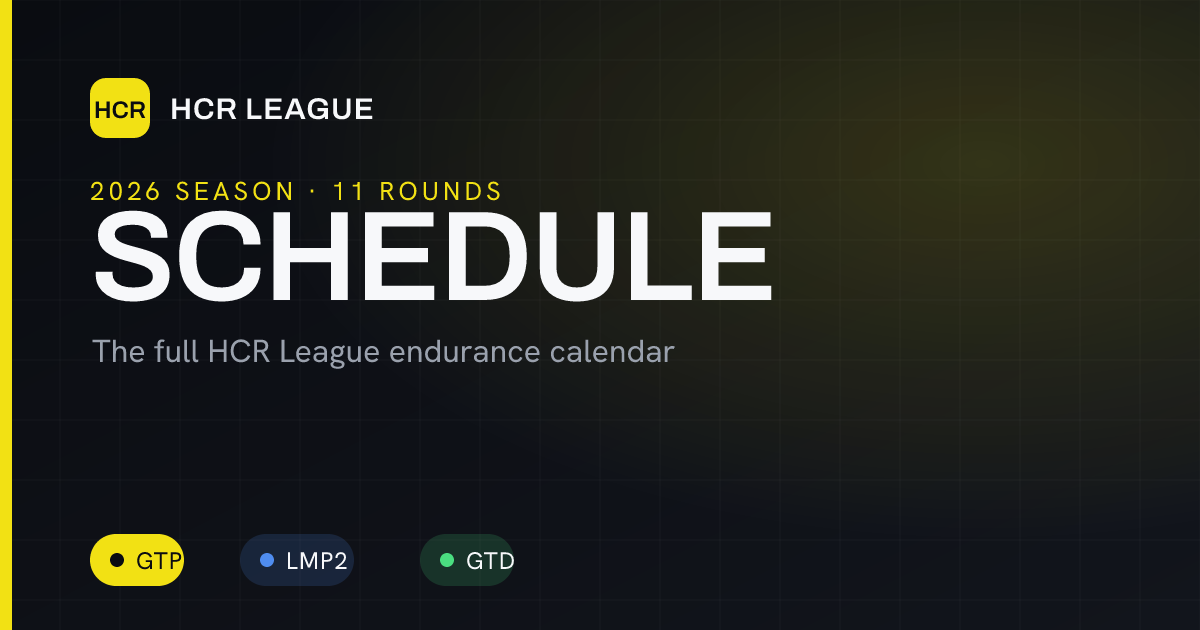
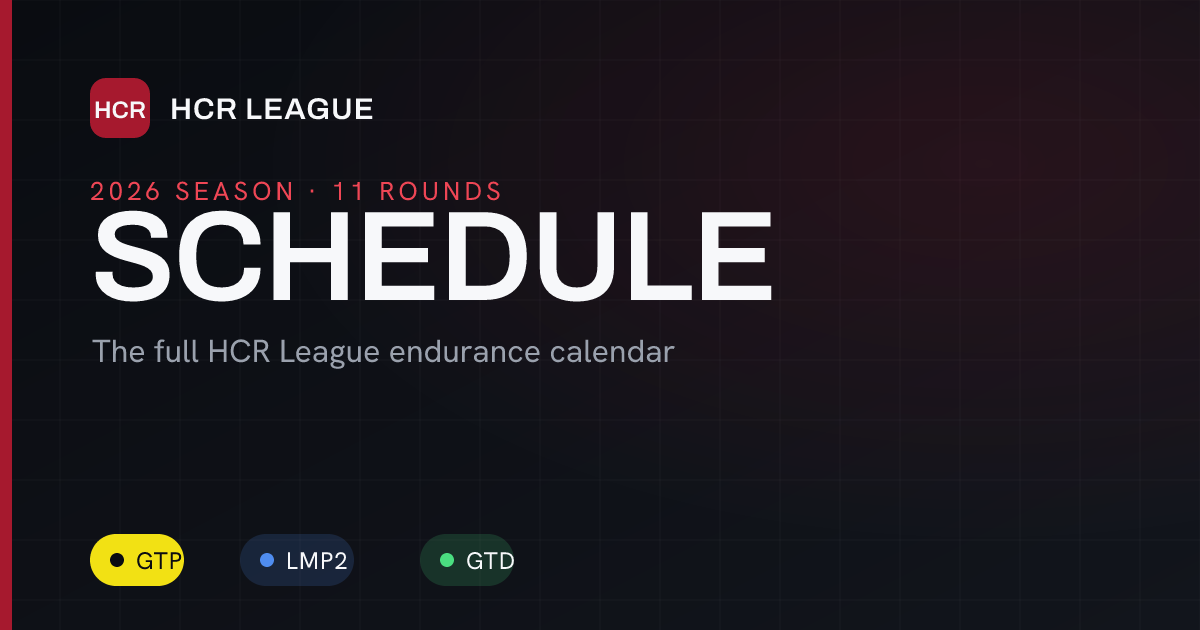
The brand goes black, red and white
--color-brand is now a rich dark carmine (#a6192e, Pantone 187
territory), --color-brand-deep #7c1121 for red-as-text on white. Dark
grounds remap BOTH brand tokens to a brighter cut (#ef4655/#f2556a)
because the carmine itself is ~1.7:1 on near-black — invisible as
text. Every black-on-brand pairing flipped to white (FL badge, You
chip, primary buttons, selection); the OG cards re-rendered with a
red rail, white-on-red lockup and bright-red eyebrow; Discord embeds
carry 0xa6192e (HCR_YELLOW renamed HCR_RED). GTP keeps its yellow —
that is a CLASS color now, not the brand.

New logo lands separately.

diff --git a/supabase/functions/discord-broadcast/index.ts b/supabase/functions/discord-broadcast/index.ts
@@ -40,7 +40,7 @@ const json = (body: unknown, status = 200) =>
   new Response(JSON.stringify(body), { status, headers: { ...CORS, 'Content-Type': 'application/json' } })
 
 const SITE = 'https://hcrleague.com'
-const HCR_YELLOW = 0xf2e114
+const HCR_RED = 0xa6192e
 // A decision's colour is the fastest thing to read in a busy channel, so a penalty
 // and a no-action finding must never look alike at a glance.
 const PENALTY_RED = 0xc62430
@@ -532,7 +532,7 @@ Deno.serve(async (req) => {
           title,
           url: ev?.id ? `${SITE}/schedule/${ev.id}` : `${SITE}/results`,
           description: clip(where ? `Provisional classification — ${where}` : 'Provisional classification', MAX_DESC),
-          color: HCR_YELLOW,
+          color: HCR_RED,
           fields,
           footer: { text: 'HCR League · 🅿 pole · full classification, lap times and championship tables at hcrleague.com' },
         }
@@ -575,7 +575,7 @@ Deno.serve(async (req) => {
           // report was unpublished after its ping went out.
           url: `${SITE}/news/${article.slug}`,
           description: clip(String(article.dek ?? ''), MAX_DESC),
-          color: HCR_YELLOW,
+          color: HCR_RED,
           ...(lead && /^https?:\/\//i.test(lead) ? { image: { url: lead } } : {}),
           footer: { text: article.author ? `HCR League · ${article.author} · read it all at hcrleague.com` : 'HCR League · read it all at hcrleague.com' },
         }
@@ -637,7 +637,7 @@ Deno.serve(async (req) => {
 
         title = clip(ev?.round != null ? `Championship after Round ${ev.round}` : 'Championship standings', MAX_TITLE)
         embed = {
-          title, url: `${SITE}/standings`, color: HCR_YELLOW, fields,
+          title, url: `${SITE}/standings`, color: HCR_RED, fields,
           footer: { text: 'HCR League · top five per class · every driver and every round at hcrleague.com' },
         }
       // ----------------------------------------------------------- penalty ----
@@ -692,7 +692,7 @@ Deno.serve(async (req) => {
           // Green for a reversal, red for a live sanction, brand yellow for a warning
           // — a warning is on the record but costs nothing, and colouring it like a
           // punishment would overstate it.
-          color: rescinded ? CLEARED_GREEN : pen.kind === 'warning' ? HCR_YELLOW : PENALTY_RED,
+          color: rescinded ? CLEARED_GREEN : pen.kind === 'warning' ? HCR_RED : PENALTY_RED,
           fields,
           footer: { text: 'HCR League · race control · decisions are final once published' },
         }
@@ -751,7 +751,7 @@ Deno.serve(async (req) => {
           // Green for a driver cleared, red only where a penalty was actually
           // applied. An upheld protest with no penalty is neither, so it stays brand
           // yellow rather than being coloured like a punishment.
-          color: dismissed ? CLEARED_GREEN : (penalty ? PENALTY_RED : HCR_YELLOW),
+          color: dismissed ? CLEARED_GREEN : (penalty ? PENALTY_RED : HCR_RED),
           fields,
           footer: { text: 'HCR League · race control · decisions are final once published' },
         }
@@ -808,7 +808,7 @@ Deno.serve(async (req) => {
         embed = {
           title,
           url: `${SITE}/admin`,
-          color: HCR_YELLOW,
+          color: HCR_RED,
           fields,
           footer: { text: 'HCR League · race control · nobody is on the grid until this is actioned' },
         }

diff --git a/src/components/HeroCarousel.tsx b/src/components/HeroCarousel.tsx
@@ -60,7 +60,7 @@ export default function HeroCarousel() {
                 addressed to a stranger, and there the ask is the right one.
               */}
               <div className="mt-8 flex flex-wrap gap-3">
-                <Link to={`/schedule/${next.id}`} className="shadow-glow rounded-xl bg-[var(--color-brand)] px-7 py-3.5 font-alt text-lg font-bold uppercase tracking-wide text-black transition-transform hover:-translate-y-1">Race Details</Link>
+                <Link to={`/schedule/${next.id}`} className="shadow-glow rounded-xl bg-[var(--color-brand)] px-7 py-3.5 font-alt text-lg font-bold uppercase tracking-wide text-white transition-transform hover:-translate-y-1">Race Details</Link>
                 <Link to="/schedule" className="rounded-xl border border-[var(--color-line-2)] px-7 py-3.5 font-alt text-lg font-bold uppercase tracking-wide text-[var(--color-ink)] transition-colors hover:border-[var(--color-ink)]">Full Schedule</Link>
               </div>
             </div>
@@ -121,7 +121,7 @@ export default function HeroCarousel() {
                 <ClassChip classId={winner.class_id} size="md" />
                 <span className="tabular text-[var(--color-muted)]">#{winner.number} · {winner.laps} laps · {winner.best_lap}</span>
               </div>
-              <Link to="/results" className="mt-8 inline-block rounded-xl bg-[var(--color-brand)] px-7 py-3.5 font-alt text-lg font-bold uppercase tracking-wide text-black transition-transform hover:-translate-y-1 shadow-glow">Race Results</Link>
+              <Link to="/results" className="mt-8 inline-block rounded-xl bg-[var(--color-brand)] px-7 py-3.5 font-alt text-lg font-bold uppercase tracking-wide text-white transition-transform hover:-translate-y-1 shadow-glow">Race Results</Link>
             </div>
             <div className="hidden md:block">
               <Link to="/results" className="block rounded-2xl bg-[var(--color-deep-2)] p-8 text-center transition-transform hover:-translate-y-0.5">
@@ -152,7 +152,7 @@ export default function HeroCarousel() {
             fight for three titles — broadcast timing, real race control, no arcade shortcuts.
           </p>
           <div className="mt-8 flex flex-wrap gap-3">
-            <Link to="/signup" className="shadow-glow rounded-xl bg-[var(--color-brand)] px-7 py-3.5 font-alt text-lg font-bold uppercase tracking-wide text-black transition-transform hover:-translate-y-1">Enter the Season</Link>
+            <Link to="/signup" className="shadow-glow rounded-xl bg-[var(--color-brand)] px-7 py-3.5 font-alt text-lg font-bold uppercase tracking-wide text-white transition-transform hover:-translate-y-1">Enter the Season</Link>
             <Link to="/standings" className="rounded-xl border border-[var(--color-line-2)] px-7 py-3.5 font-alt text-lg font-bold uppercase tracking-wide text-[var(--color-ink)] transition-colors hover:border-[var(--color-ink)]">Championship</Link>
           </div>
         </div>

diff --git a/src/index.css b/src/index.css
@@ -3,8 +3,8 @@
 /* ------------------------------------------------------------------ *
  * HCR League — design tokens ("paddock catalog" system)
  * Clean white grounds, heavy grotesque display type, chip filters and
- * card grids, full-bleed near-black feature panels, HCR yellow as the
- * single hot accent. Mono is reserved for timing data — the league's
+ * card grids, full-bleed near-black feature panels, HCR red — a rich dark carmine — as the
+ * single hot accent (black/red/white brand). Mono is reserved for timing data — the league's
  * signature. Class colors come from the DB.
  * ------------------------------------------------------------------ */
 @theme {
@@ -25,10 +25,10 @@
   --color-muted: #5d5d58;   /* muted text (AA on light) */
   --color-faint: #63635e;   /* captions (AA on mist) */
 
-  /* Accents — HCR yellow is the hot accent (swap --color-brand to
-     #ff4d00 for the reference's literal orange) */
-  --color-brand: #f2e114;
-  --color-brand-deep: #756a07; /* yellow legible as text on white */
+  /* Accents — HCR red is the hot accent: a rich, dark carmine (Pantone 187
+     territory), black/red/white brand per league directive 1 Sep 2026 */
+  --color-brand: #a6192e;
+  --color-brand-deep: #7c1121; /* red legible as text on white */
   --color-accent: #d93b45;
   --color-blue: #2f6bff;
   --color-green: #12805c;
@@ -82,7 +82,7 @@
 
   ::selection {
     background: var(--color-brand);
-    color: #000;
+    color: #fff;
   }
 
   .tabular {
@@ -122,7 +122,7 @@
     box-shadow: 0 18px 40px -28px rgba(10, 10, 10, 0.35);
   }
   .shadow-glow {
-    box-shadow: 0 14px 38px -14px rgba(242, 225, 20, 0.7);
+    box-shadow: 0 14px 38px -14px rgba(166, 25, 46, 0.55);
   }
 
   /* Telemetry gridline on feature panels, fading via a radial mask. */
@@ -148,9 +148,12 @@
     --color-ink-2: #d9d9d4;
     --color-muted: #a8a8a2;
     --color-faint: #97978f;
-    /* accents tuned for white fail AA on near-black — remap them too */
+    /* accents tuned for white fail AA on near-black — remap them too.
+       The rich carmine itself is ~1.7:1 on black, so both brand tokens
+       brighten on dark grounds. */
     --color-blue: #7da2ff;
-    --color-brand-deep: var(--color-brand);
+    --color-brand: #ef4655;
+    --color-brand-deep: #f2556a;
     color: var(--color-ink);
   }
 
@@ -274,7 +277,7 @@
     transition: transform 0.15s, background 0.2s, border-color 0.2s, opacity 0.2s;
   }
   .hcr-btn:disabled { opacity: 0.55; cursor: default; }
-  .hcr-btn-primary { background: var(--color-brand); color: #000; }
+  .hcr-btn-primary { background: var(--color-brand); color: #fff; }
   .hcr-btn-primary:hover:not(:disabled) { transform: translateY(-1px); }
   /* Solid ink button — the reference's black CTA. */
   .hcr-btn-dark { background: var(--color-deep); color: #fff; }

diff --git a/src/pages/Home.tsx b/src/pages/Home.tsx
@@ -134,7 +134,7 @@ export default function Home() {
                     </ol>
                     <Link
                       to="/standings"
-                      className={`${ACTION_BAR} bg-[var(--color-cloud)] text-[var(--color-ink)] hover:bg-[var(--color-brand)] hover:text-black`}
+                      className={`${ACTION_BAR} bg-[var(--color-cloud)] text-[var(--color-ink)] hover:bg-[var(--color-brand)] hover:text-white`}
                     >
                       Full standings <span aria-hidden>→</span>
                     </Link>
@@ -175,7 +175,7 @@ export default function Home() {
                 <div className="flex-1 p-5">
                   <div className="flex items-center justify-between gap-4">
                     <span className="font-mono text-[10px] font-semibold uppercase tracking-[0.16em] text-[var(--color-muted)]">Round {e.round}</span>
-                    {isNext && <span className="rounded-full bg-[var(--color-brand)] px-2.5 py-1 text-[10px] font-bold uppercase tracking-[0.08em] text-black">Next</span>}
+                    {isNext && <span className="rounded-full bg-[var(--color-brand)] px-2.5 py-1 text-[10px] font-bold uppercase tracking-[0.08em] text-white">Next</span>}
                     {done && <span className="font-mono text-[10px] font-semibold uppercase tracking-[0.16em] text-[var(--color-faint)]">Final</span>}
                   </div>
                   <div className="mt-3 whitespace-nowrap font-display text-2xl leading-tight">{e.track?.name ?? e.name}</div>
@@ -186,7 +186,7 @@ export default function Home() {
                 <div
                   className={`${ACTION_BAR} ${
                     isNext
-                      ? 'bg-[var(--color-brand)] text-black'
+                      ? 'bg-[var(--color-brand)] text-white'
                       : 'bg-[var(--color-mist)] text-[var(--color-ink)] group-hover:bg-[var(--color-deep)] group-hover:text-white'
                   }`}
                 >

diff --git a/src/pages/Results.tsx b/src/pages/Results.tsx
@@ -232,7 +232,7 @@ function ClassTable({
                       <td className="px-4 py-3.5 font-semibold">
                         <span className="inline-flex items-center gap-2">
                           <DriverName text={r.drivers_text} />
-                          {isMe && <span className="rounded bg-[var(--color-brand)] px-1.5 py-0.5 text-[10px] font-bold uppercase leading-none text-black">You</span>}
+                          {isMe && <span className="rounded bg-[var(--color-brand)] px-1.5 py-0.5 text-[10px] font-bold uppercase leading-none text-white">You</span>}
                           {r.fill_in && (
                             <span className="rounded border border-[var(--color-line-2)] px-1.5 py-0.5 text-[10px] font-bold uppercase leading-none text-[var(--color-muted)]" title="Fill-in entry — scores the Fill-In Cup, not the championship">
                               Fill-In
@@ -260,7 +260,7 @@ function ClassTable({
                               {r.best_on != null && <span className="ml-1 text-[11px] font-normal text-[var(--color-faint)]">L{r.best_on}</span>}
                             </span>
                             {r.id === flId && (
-                              <span className="rounded bg-[var(--color-brand)] px-1.5 py-0.5 text-[10px] font-bold uppercase leading-none text-black" title="Fastest lap in class">FL</span>
+                              <span className="rounded bg-[var(--color-brand)] px-1.5 py-0.5 text-[10px] font-bold uppercase leading-none text-white" title="Fastest lap in class">FL</span>
                             )}
                           </span>
                         ) : (

diff --git a/supabase/functions/discord-interactions/index.ts b/supabase/functions/discord-interactions/index.ts
@@ -232,7 +232,7 @@ const SITE = 'https://hcrleague.com'
  * directory — so it belongs in the copy rather than in config.
  */
 const IRACING_LEAGUE_ID = '14470'
-const HCR_YELLOW = 0xf2e114
+const HCR_RED = 0xa6192e
 const CLASS_ORDER = ['GTP', 'LMP2', 'GTD']
 const MAX_FIELD = 1024
 const clip = (s: string, n = MAX_FIELD) => (s.length > n ? `${s.slice(0, n - 1)}…` : s)
@@ -477,7 +477,7 @@ async function refreshTally(
     embeds: [{
       title: `Attendance — Round ${ev.round} — ${ev.name}`,
       description: `${[track?.name, track?.config].filter(Boolean).join(' · ')}\n<t:${at}:F> (<t:${at}:R>)`,
-      color: 0xf2e114,
+      color: 0xa6192e,
       fields,
       footer: { text: `HCR League · staff only · ${tally.length} on the grid · updates as people answer` },
     }],
@@ -565,7 +565,7 @@ async function handleNext(
   return replyEmbed({
     title: `Round ${ev.round} — ${ev.name}`,
     url: `${SITE}/schedule`,
-    color: HCR_YELLOW,
+    color: HCR_RED,
     fields,
     footer: { text: 'HCR League · only you can see this' },
   })
@@ -614,7 +614,7 @@ async function handleStandings(
   return replyEmbed({
     title: only ? `${only} championship` : 'Championship standings',
     url: `${SITE}/standings`,
-    color: HCR_YELLOW,
+    color: HCR_RED,
     description: `${season.name ?? 'This season'} · ${done} of ${ids.length} rounds scored`,
     fields,
     footer: { text: 'HCR League · top five per class · full table on the site · only you can see this' },

diff --git a/supabase/functions/discord-attendance/index.ts b/supabase/functions/discord-attendance/index.ts
@@ -51,7 +51,7 @@ const json = (b: unknown, s = 200) =>
   new Response(JSON.stringify(b), { status: s, headers: { ...CORS, 'Content-Type': 'application/json' } })
 
 const SITE = 'https://hcrleague.com'
-const HCR_YELLOW = 0xf2e114
+const HCR_RED = 0xa6192e
 const CLEARED_GREEN = 0x12805c
 const PENALTY_RED = 0xc62430
 const SNOWFLAKE = /^\d{5,25}$/
@@ -528,7 +528,7 @@ Deno.serve(async (req) => {
     const controlEmbed = {
       title: `Attendance — ${label}`,
       description: `${where}\n${when}`,
-      color: HCR_YELLOW,
+      color: HCR_RED,
       fields: controlFields,
       footer: { text: `HCR League · staff only · ${tally.length} on the grid · updates as people answer` },
     }
@@ -557,7 +557,7 @@ Deno.serve(async (req) => {
       // number moves to the footer, available without being the first thing read.
       title: `Are you racing? ${askTitle}`,
       description: `${detail}\n\nTap a button so race control knows what the grid looks like. You can change your mind any time — press the other one.`,
-      color: HCR_YELLOW,
+      color: HCR_RED,
       footer: { text: `HCR League · Round ${next.round} · ${SITE}/schedule` },
     }
     const askComponents = [{

diff --git a/src/pages/commissioner/CommissionerPortal.tsx b/src/pages/commissioner/CommissionerPortal.tsx
@@ -15,7 +15,7 @@ import CarsAdmin from './CarsAdmin'
 /**
  * Race Control Dashboard — the SaaS-console layout (sidebar of grouped
  * sections, content pane) in the site's paddock-catalog language: white
- * ground, near-black rail, mono micro-labels, yellow as the active accent.
+ * ground, near-black rail, mono micro-labels, red as the active accent.
  *
  * The People group is four sections and each one answers a different question, which
  * is the test a new tab has to pass. Drivers is a PERSON, Grid is a CAR, Signups is a
@@ -160,7 +160,7 @@ export default function CommissionerPortal() {
                         aria-current={active ? 'page' : undefined}
                         className={`min-h-11 whitespace-nowrap rounded-lg px-3.5 py-2.5 text-left font-alt text-[13px] font-bold transition-colors ${
                           active
-                            ? 'bg-[var(--color-brand)] text-black'
+                            ? 'bg-[var(--color-brand)] text-white'
                             : 'text-[var(--color-ink-2)] hover:bg-[var(--color-cloud)] hover:text-[var(--color-ink)]'
                         }`}
                       >

diff --git a/src/pages/Compare.tsx b/src/pages/Compare.tsx
@@ -108,7 +108,7 @@ function SideValue({ line, side }: { line: LedgerLine; side: 'a' | 'b' }) {
           <AnimatedStat value={v} decimals={line.decimals} prefix={prefix} />
         </span>
       )}
-      {/* winner mark: 2px gold underline; kept as a spacer on the loser so rows don't jitter */}
+      {/* winner mark: 2px brand-red underline; kept as a spacer on the loser so rows don't jitter */}
       <span
         className={`mt-1.5 h-[2px] w-9 rounded-full ${win ? 'bg-[var(--color-brand-deep)]' : 'bg-transparent'}`}
         aria-hidden="true"
@@ -365,7 +365,7 @@ export default function Compare() {
                   </div>
                 </div>
                 <p className="mt-3 font-body text-xs text-[var(--color-faint)]">
-                  The gold underline marks whoever holds the edge on each line. Ties and missing data go unmarked.
+                  The red underline marks whoever holds the edge on each line. Ties and missing data go unmarked.
                 </p>
               </section>
 

diff --git a/src/pages/commissioner/Members.tsx b/src/pages/commissioner/Members.tsx
@@ -89,7 +89,7 @@ function MemberRow({ member, onSaved }: { member: Profile; onSaved: () => void }
       <div className="min-w-0">
         <div className="flex items-center gap-2">
           <span className="truncate font-semibold">{member.display_name ?? member.email}</span>
-          {member.is_admin && <span className="rounded-full bg-[var(--color-brand)] px-2 py-0.5 text-[10px] font-bold uppercase text-black">Commish</span>}
+          {member.is_admin && <span className="rounded-full bg-[var(--color-brand)] px-2 py-0.5 text-[10px] font-bold uppercase text-white">Commish</span>}
         </div>
         <div className="truncate text-xs text-[var(--color-muted)]">{member.email}</div>
       </div>

diff --git a/src/pages/FillInStandings.tsx b/src/pages/FillInStandings.tsx
@@ -147,7 +147,7 @@ export default function FillInStandings() {
                       <td className="px-4 py-3.5 font-semibold">
                         <span className="inline-flex items-center gap-2">
                           <DriverName text={r.name} />
-                          {isMe && <span className="rounded bg-[var(--color-brand)] px-1.5 py-0.5 text-[10px] font-bold uppercase leading-none text-black">You</span>}
+                          {isMe && <span className="rounded bg-[var(--color-brand)] px-1.5 py-0.5 text-[10px] font-bold uppercase leading-none text-white">You</span>}
                         </span>
                       </td>
                       <td className="px-4 py-3.5">

diff --git a/src/pages/Standings.tsx b/src/pages/Standings.tsx
@@ -184,7 +184,7 @@ function StandingsTable({
                 <td className="px-4 py-3.5 font-semibold">
                   <span className="inline-flex items-center gap-2">
                     <DriverName text={r.name} />
-                    {isMe && <span className="rounded bg-[var(--color-brand)] px-1.5 py-0.5 text-[10px] font-bold uppercase leading-none text-black">You</span>}
+                    {isMe && <span className="rounded bg-[var(--color-brand)] px-1.5 py-0.5 text-[10px] font-bold uppercase leading-none text-white">You</span>}
                   </span>
                 </td>
                 <td className="tabular px-4 py-3.5 text-center text-[var(--color-muted)]">{r.starts}</td>
